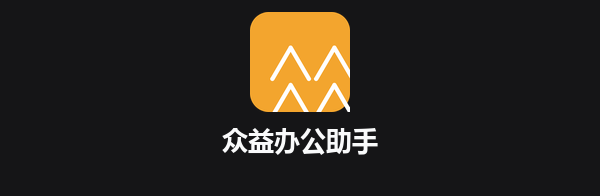
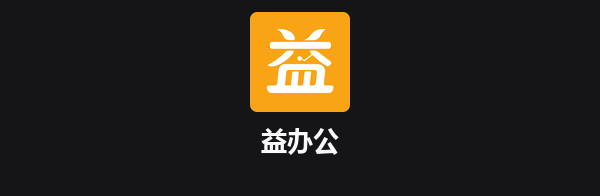
feat(desktop): brand the app as 益办公 with its own mark
The window, taskbar, tray, favicons and installer artwork now carry the
益 sign, while the sidebar keeps the 三九众益 corporate mark. The new
session hero swaps the upstream whale for the same single-colour mark.

The product name reads 益办公 in Chinese and DeepSeek Harness in English;
the packaging productName is untouched, so install paths and the
uninstaller entry keep their existing identity.

Changed region(s): [[0.39, 0.0612, 0.6, 0.5816], [0.36, 0.6429, 0.63, 0.7959]]

diff --git a/packages/client/ui-conversation/src/client/skeleton/EmptyHero.tsx b/packages/client/ui-conversation/src/client/skeleton/EmptyHero.tsx
@@ -1,10 +1,9 @@
 // The composer remains in ConversationRoot so switching out of the blank-draft
 // phase does not remount its textarea.
 
-import { useState } from 'react'
 import type { ReactNode, RefObject } from 'react'
 import {
-  FISH_LOGO_PATH, FISH_LOGO_VIEWBOX, IconChevronDownOutlineRegular, IconFolderCloseRegular, IconFolderOpenRegular,
+  IconChevronDownOutlineRegular, IconFolderCloseRegular, IconFolderOpenRegular,
 } from '@deepseek-ai/dsh-client-ui-primitives'
 import { workspaceTitleOf } from '@deepseek-ai/dsh-util-workspace-path'
 import type { ConversationContentProps } from '../contract/slots.ts'
@@ -71,55 +70,29 @@ export interface HeroShellProps {
   children?: ReactNode
 }
 
-/* Hover swim morph targets: the resting FISH_LOGO_PATH with weighted
-   regional deformation baked in (generated programmatically — parse the
-   path's absolute M/C/L/Z commands, displace points with smoothstep falloff
-   weights, emit the same command structure so SMIL can interpolate `d`
-   between them). Tail: rotation about (15.6, 5.2) with weight growing toward
-   the tail tip (x>15, y<8.5) — UP -7°, DOWN +6°. Mouth/fin swoosh: a bend,
-   not a rotation — vertical lift with weight-squared falloff from the body
-   anchor (14.1, 15.0), so the near end stays seated and the mouth corner
-   sweeps most, a smile lift (UP -0.7 units at the tip, DOWN +0.5). The eye
-   subpaths carry zero weight and stay fixed. */
-const HERO_SWIM_UP_PATH =
-  'M22.403 0.567C22.145 0.477 22.068 0.718 21.939 0.85C21.895 0.893 21.86 0.947 21.824 0.997C21.515 1.421 21.13 1.721 20.591 1.77C19.829 1.867 19.221 2.244 18.712 2.958C18.535 2.227 18.116 1.839 17.516 1.626C17.203 1.506 16.887 1.379 16.663 1.064C16.508 0.839 16.462 0.581 16.383 0.329C16.332 0.176 16.283 0.02 16.121 -0.002C15.944 -0.029 15.875 0.133 15.805 0.269C15.52 0.822 15.408 1.43 15.42 2.046C15.449 3.432 16.031 4.532 17.202 5.274C17.337 5.356 17.374 5.445 17.335 5.582C17.261 5.862 17.169 6.134 17.086 6.413C17.032 6.59 16.952 6.63 16.764 6.558C16.118 6.301 15.562 5.909 15.074 5.433C14.248 4.633 13.5 3.751 12.568 3.06C12.349 2.898 12.13 2.748 11.903 2.605C10.952 1.682 12.028 0.923 12.277 0.833C12.537 0.739 12.367 0.416 11.526 0.42C10.684 0.424 9.914 0.706 8.933 1.081C8.789 1.138 8.638 1.179 8.484 1.213C7.593 1.044 6.668 1.006 5.702 1.115C3.883 1.318 2.43 2.178 1.362 3.646C0.079 5.41 -0.223 7.415 0.147 9.506C0.535 11.71 1.66 13.535 3.389 14.962C5.181 16.441 7.246 17.166 9.601 17.027C11.032 16.944 12.624 16.753 14.421 15.232C14.874 15.458 15.35 15.548 16.138 15.615C16.746 15.672 17.331 15.585 17.784 15.491C18.493 15.341 18.444 14.684 18.188 14.564C16.108 13.595 16.565 13.989 16.15 13.67C17.206 12.42 18.82 10.198 19.363 7.086C19.421 6.709 19.484 6.171 19.469 5.866C19.458 5.681 19.493 5.604 19.681 5.556C20.199 5.412 20.691 5.172 21.125 4.806C22.366 3.824 22.758 2.554 22.708 1.1C22.7 0.878 22.649 0.654 22.403 0.567ZM11.175 14.451C9.159 12.726 8.182 12.088 7.778 12.067C7.401 12.047 7.469 12.505 7.552 12.807C7.639 13.103 7.752 13.313 7.91 13.581C8.02 13.758 8.095 14.01 7.801 14.16C7.152 14.487 6.023 13.806 5.97 13.772C4.657 12.85 3.559 11.766 2.785 10.369C2.037 9.025 1.603 7.583 1.532 6.044C1.513 5.672 1.622 5.541 1.992 5.473C2.479 5.383 2.981 5.364 3.468 5.436C5.525 5.736 7.276 6.675 8.744 8.323C9.582 9.299 10.216 10.425 10.869 11.496C11.563 12.592 12.31 13.603 13.262 14.414C13.598 14.696 13.866 14.91 14.123 15.068C13.349 15.154 12.058 15.167 11.175 14.452L11.175 14.451ZM12.141 8.26C12.141 8.095 12.273 7.963 12.439 7.963C12.476 7.963 12.511 7.971 12.541 7.982C12.582 7.997 12.62 8.019 12.65 8.053C12.704 8.106 12.733 8.181 12.733 8.26C12.733 8.425 12.601 8.556 12.435 8.556C12.27 8.556 12.141 8.425 12.141 8.26ZM15.142 9.799C14.949 9.878 14.757 9.945 14.572 9.953C14.284 9.968 13.972 9.851 13.802 9.709C13.537 9.487 13.348 9.363 13.27 8.977C13.236 8.812 13.255 8.556 13.284 8.41C13.352 8.094 13.277 7.892 13.055 7.708C12.873 7.558 12.643 7.516 12.39 7.516C12.296 7.516 12.209 7.475 12.145 7.441C12.039 7.389 11.952 7.257 12.035 7.096C12.062 7.043 12.19 6.916 12.22 6.893C12.563 6.698 12.96 6.762 13.326 6.908C13.665 7.047 13.922 7.302 14.292 7.663C14.669 8.098 14.738 8.218 14.953 8.545C15.123 8.801 15.277 9.063 15.383 9.364C15.447 9.551 15.364 9.705 15.142 9.799Z'
-const HERO_SWIM_DOWN_PATH =
-  'M23.271 2.216C23.039 2.071 22.91 2.287 22.755 2.388C22.703 2.42 22.656 2.464 22.61 2.505C22.214 2.848 21.771 3.054 21.225 2.956C20.412 2.784 19.68 2.919 19.005 3.435C18.92 2.663 18.493 2.157 17.808 1.798C17.446 1.621 17.08 1.449 16.83 1.111C16.656 0.872 16.611 0.612 16.524 0.354C16.469 0.198 16.414 0.039 16.223 0.009C16.017 -0.024 15.936 0.137 15.856 0.271C15.539 0.822 15.418 1.43 15.429 2.046C15.454 3.432 16.041 4.538 17.196 5.36C17.325 5.456 17.356 5.547 17.312 5.674C17.229 5.936 17.134 6.191 17.051 6.454C16.999 6.623 16.921 6.659 16.738 6.58C16.107 6.306 15.56 5.909 15.074 5.433C14.248 4.633 13.5 3.751 12.568 3.06C12.349 2.898 12.13 2.748 11.903 2.605C10.952 1.682 12.028 0.923 12.277 0.833C12.537 0.739 12.367 0.416 11.526 0.42C10.684 0.424 9.914 0.706 8.933 1.081C8.789 1.138 8.638 1.179 8.484 1.213C7.593 1.044 6.668 1.006 5.702 1.115C3.883 1.318 2.43 2.178 1.362 3.646C0.079 5.41 -0.223 7.415 0.147 9.506C0.535 11.71 1.66 13.535 3.389 14.962C5.181 16.441 7.246 17.166 9.601 17.027C11.032 16.944 12.624 16.753 14.421 15.232C14.874 15.458 15.35 15.548 16.138 15.615C16.746 15.672 17.331 15.585 17.784 15.491C18.493 15.341 18.444 14.684 18.188 14.564C16.108 13.595 16.565 13.989 16.15 13.67C17.206 12.42 18.82 10.198 19.278 7.246C19.318 6.948 19.375 6.534 19.371 6.293C19.371 6.145 19.411 6.092 19.597 6.098C20.113 6.109 20.619 6.051 21.096 5.891C22.503 5.375 23.169 4.232 23.448 2.804C23.49 2.586 23.491 2.356 23.271 2.216ZM11.175 14.49C9.159 13.005 8.182 12.567 7.778 12.621C7.401 12.673 7.469 13.087 7.552 13.354C7.639 13.619 7.752 13.797 7.91 14.024C8.02 14.175 8.095 14.406 7.801 14.609C7.152 15.063 6.023 14.63 5.97 14.609C4.657 13.941 3.559 12.965 2.785 11.569C2.037 10.225 1.603 8.783 1.532 7.244C1.513 6.872 1.622 6.741 1.992 6.673C2.479 6.583 2.981 6.564 3.468 6.636C5.525 6.936 7.276 7.843 8.744 9.163C9.582 9.888 10.216 10.783 10.869 11.679C11.563 12.659 12.31 13.617 13.262 14.415C13.598 14.696 13.866 14.91 14.123 15.068C13.349 15.155 12.058 15.177 11.175 14.491L11.175 14.49ZM12.141 8.26C12.141 8.095 12.273 7.963 12.439 7.963C12.476 7.963 12.511 7.971 12.541 7.982C12.582 7.997 12.62 8.019 12.65 8.053C12.704 8.106 12.733 8.181 12.733 8.26C12.733 8.425 12.601 8.556 12.435 8.556C12.27 8.556 12.141 8.425 12.141 8.26ZM15.142 9.799C14.949 9.878 14.757 9.945 14.572 9.953C14.284 9.968 13.972 9.851 13.802 9.709C13.537 9.487 13.348 9.363 13.27 8.977C13.236 8.812 13.255 8.556 13.284 8.41C13.352 8.094 13.277 7.892 13.055 7.708C12.873 7.558 12.643 7.516 12.39 7.516C12.296 7.516 12.209 7.475 12.145 7.441C12.039 7.389 11.952 7.257 12.035 7.096C12.062 7.043 12.19 6.916 12.22 6.893C12.563 6.698 12.96 6.762 13.326 6.908C13.665 7.047 13.922 7.302 14.292 7.663C14.669 8.098 14.738 8.218 14.953 8.545C15.123 8.801 15.277 9.063 15.383 9.364C15.447 9.551 15.364 9.705 15.142 9.799Z'
+/** The hero mark's artwork: the 益 sign on the 1024 canvas the brand files ship. */
+const HERO_MARK_VIEWBOX = 1024
+const HERO_MARK_PATH =
+  'M295.72 175.33 C281.08 176.16 272.61 179.2 278.75 181.42 C307.67 191.89 322.53 206.94 339.56 243.01 C356.53 278.97 374.78 288.72 425.07 288.72 C457.3 288.72 463.26 283.66 457.37 261.3 C442.67 205.6 377.13 170.74 295.72 175.33 M727.23 175.77 C677.13 182.78 653.17 196.1 622.24 234.13 C613.18 245.27 612.4 246.18 606.61 252.57 C592.48 268.15 574.91 279.88 556.6 285.95 C552.83 287.19 549.91 288.36 550.09 288.55 C550.79 289.25 649.62 288.68 655.84 287.94 C688.89 284.03 708.12 269.25 726.15 233.91 C740.4 205.98 751.91 192.64 769.35 183.84 C775.72 180.63 775.72 178.59 769.36 176.72 C766.5 175.88 732.01 175.1 727.23 175.77 M222.23 306.64 C215.45 308.44 209.81 313.17 206.05 320.24 C203.49 325.03 203.46 358.59 206 363.75 C208.06 367.94 212.44 372.32 216.95 374.7L220.48 376.56 514.08 376.74 C840.4 376.94 811.16 377.37 817.78 372.31 C826.38 365.72 828.29 358.89 828.35 334.48 C828.39 316.72 822.82 308.4 809.47 306.26 C801.49 304.98 227.07 305.35 222.23 306.64 M384.96 395.08 C377.36 397.09 372.11 400.69 360.51 411.87 C305.13 465.22 250.36 505.77 197.95 532.22 C177.9 542.34 178.08 549.12 198.55 554.66 C251.12 568.88 336.25 529.95 410.42 457.78 C445.56 423.58 454.75 405.07 440.87 396.45L438.16 394.76 412.61 394.64 C398.56 394.58 386.12 394.77 384.96 395.08 M620.84 395.46 C608.9 399.69 609.98 406.68 625.09 422.81 C634.3 432.65 634.07 431.84 628.71 435.71 C626.31 437.44 615.84 445.31 605.44 453.21 C561.92 486.24 554.97 491.22 552.88 490.82 C552.05 490.66 547.12 487.91 541.92 484.71L532.47 478.89 532.14 474.27 C530.03 444.92 485.41 445.94 485.32 475.35 C485.25 498.52 513.93 508.02 527.4 489.28 C529.8 485.94 527.55 484.84 548.33 499.46 C557.55 505.94 554.88 507.11 586.97 482.6 C605.95 468.12 611.29 464.02 631.48 448.5L640.72 441.39 651.1 450.98 C656.81 456.24 664.31 463.12 667.76 466.26 C674.69 472.57 703.42 497.1 707.27 500.01 C708.62 501.02 712.74 504.27 716.44 507.22 C745.9 530.74 780.33 552.61 791.44 554.87 C811.84 559.01 838.24 529.46 829.6 512.15 C827.09 507.13 823.54 504.05 802.82 488.92 C796.28 484.14 786.08 476.59 780.15 472.14 C774.23 467.69 767.92 462.95 766.12 461.6 C764.33 460.26 759.45 456.48 755.29 453.21 C751.12 449.93 746.39 446.31 744.77 445.16 C743.15 444 733.07 436.28 722.38 428.01 C692.6 404.96 682.5 398.51 671.94 395.81 C664.87 394 625.73 393.73 620.84 395.46 M351.39 533.78 C316.73 538.83 295.56 564.87 291.48 607.52 C290.7 615.62 289.31 629.64 288.38 638.69 C287.46 647.73 285.75 664.43 284.58 675.78 C283.42 687.14 282.12 699.9 281.69 704.13 C278.62 734.37 277.65 738.56 272.2 745.04 C266.45 751.88 265.07 752.08 223.8 752.08 C182.94 752.08 183.53 752 177.65 758.03 C172.92 762.89 172.23 765.4 172.78 775.91 C174.24 803.8 189.32 823.91 212.43 828.81 C220.32 830.48 807.68 830.47 815.66 828.8 C838.58 823.99 853.25 801.91 853.74 771.5 C853.88 762.21 851.52 757.55 844.82 753.94 C842.07 752.46 841.28 752.42 804.16 752.08L766.3 751.73 763.4 749.71 C755.59 744.3 755.49 741.87 760.84 691.53 C762.96 671.51 765.18 650.57 765.76 644.99 C766.33 639.41 767.46 629.01 768.27 621.89 C773.64 574.13 749.35 540.88 704.12 534.06 C696.17 532.86 359.53 532.59 351.39 533.78 M393.71 593.87 C386.44 594.81 379.99 598.91 375.56 605.4 C371.8 610.91 371.11 614.53 368.86 640.79 C368.25 647.91 366.99 660.67 366.07 669.13 C365.15 677.6 363.57 692.72 362.56 702.73 C361.56 712.74 360.28 725.02 359.73 730.03 C357.19 752.9 356.08 752.08 389.46 752.08 C420.69 752.08 418 753.68 420.31 733.63 C421.66 721.93 426.57 674.51 429.41 645.69 C430.19 637.8 431.14 628.25 431.52 624.48 C433.07 609.05 435.56 607.89 466.99 607.89 C498.59 607.9 501.16 609.33 499.45 625.91 C499.06 629.67 498.26 637.54 497.67 643.41 C497.08 649.28 496.12 658.89 495.52 664.76 C494.93 670.63 493.67 683.15 492.71 692.58 C491.76 702.01 490.2 717.08 489.24 726.05 C487.03 746.85 487.02 748.16 489.22 750.36L490.94 752.08 514.67 752.08 C544.11 752.08 542.55 752.78 544.14 738.78 C544.51 735.51 546.25 720.54 548.01 705.53 C549.77 690.52 551.52 675.4 551.9 671.93 C557.53 620.55 558.48 615.23 562.72 611.5 C566.38 608.29 566.85 608.24 593.6 608.24L618.15 608.24 620.78 610.25 C627.3 615.22 627.29 611.67 620.85 663.81 C609.56 755.2 610.27 746.87 613.48 750.07L615.56 752.16 634.65 751.94 C655.96 751.7 657.04 751.48 663.57 746.13 C671.71 739.47 673.66 733.69 676.12 709.03 C676.74 702.87 679.15 680.98 681.47 660.39 C686.58 615.22 686.64 613.84 683.6 607.68 C677.84 595.97 673.5 594.35 646.39 593.84 C615.55 593.25 398.28 593.28 393.71 593.87'
 
 /**
- * The hero fish (34px wide), static at rest. Hovering swims the whale in
- * place: a gentle head-up sway (CSS, on the hitbox hover) while the body
- * itself morphs — SMIL interpolates `d` through the tail-up and tail-down
- * targets on the same 1.6s period, so the tail wags and the fin flutters in
- * real curve deformation. Decorative — hidden from the accessibility tree;
- * reduced motion keeps the static filled logo on hover (sampled at
- * mouseenter; a mid-hover preference change takes effect on the next enter).
- * @param props.hovering - driven by the hitbox parent's pointer state.
- * @returns the fish svg element.
+ * The hero mark (30px), static at rest. Hovering sways it in place through
+ * CSS on the hitbox; the artwork never morphs, so the mark stays this
+ * distribution's own sign instead of the upstream whale. Decorative — hidden
+ * from the accessibility tree.
+ * @returns the hero mark svg element.
  */
-function HeroFish({ hovering }: { hovering: boolean }) {
+function HeroMark() {
   return (
     <svg
       className={css.fish}
-      width={34}
-      height={(34 * FISH_LOGO_VIEWBOX.height) / FISH_LOGO_VIEWBOX.width}
-      viewBox={`0 0 ${FISH_LOGO_VIEWBOX.width} ${FISH_LOGO_VIEWBOX.height}`}
+      width={30}
+      height={30}
+      viewBox={`0 0 ${HERO_MARK_VIEWBOX} ${HERO_MARK_VIEWBOX}`}
       fill="none"
       aria-hidden="true"
     >
-      <path d={FISH_LOGO_PATH} fill="currentColor">
-        {hovering && (
-          <animate
-            attributeName="d"
-            values={`${FISH_LOGO_PATH};${HERO_SWIM_UP_PATH};${FISH_LOGO_PATH};${HERO_SWIM_DOWN_PATH};${FISH_LOGO_PATH}`}
-            keyTimes="0;0.35;0.55;0.75;1"
-            calcMode="spline"
-            keySplines="0.45 0 0.55 1;0.45 0 0.55 1;0.45 0 0.55 1;0.45 0 0.55 1"
-            dur="1.6s"
-            repeatCount="indefinite"
-          />
-        )}
-      </path>
+      <path d={HERO_MARK_PATH} fill="currentColor" fillRule="evenodd" />
     </svg>
   )
 }
@@ -130,23 +103,14 @@ function HeroFish({ hovering }: { hovering: boolean }) {
  * @returns the centered hero element tree.
  */
 export function HeroShell({ t, renderSlot, children }: HeroShellProps) {
-  const [hovering, setHovering] = useState(false)
   return (
     <div className={css.root}>
       <div className={css.stack}>
         <div className={css.headline}>
-          {/* figma 34:10412: fish 34×25 leading the headline, gap 10. */}
-          <span
-            className={css.fishHitbox}
-            onMouseEnter={() => {
-              if (window.matchMedia('(hover: hover) and (prefers-reduced-motion: no-preference)').matches) {
-                setHovering(true)
-              }
-            }}
-            onMouseLeave={() => { setHovering(false) }}
-          >
+          {/* figma 34:10412: the mark leads the headline, gap 10. */}
+          <span className={css.fishHitbox}>
             {renderSlot('conversation.hero.brand.mark', { size: 34, className: css.fish }, {
-              fallback: <HeroFish hovering={hovering} />,
+              fallback: <HeroMark />,
             })}
           </span>
           <span className={css.titleGroup}>

diff --git a/apps/web/vite.config.ts b/apps/web/vite.config.ts
@@ -11,7 +11,7 @@ const src = (rel: string): string => fileURLToPath(new URL(rel, import.meta.url)
 const STANDALONE_ERROR = 'apps/web is not a standalone application: bare Vite cannot inject window.__DSH_BOOT__. '
   + 'From a repository checkout, run `pnpm dsh web`; an installed package uses `dsh web`. '
   + 'For client-plugin HMR, run `pnpm run dev:web`, which starts `dsh web` and the rebuild watchers together.'
-const DEFAULT_CLIENT_TITLE = 'DSH Local Build'
+const DEFAULT_CLIENT_TITLE = 'DeepSeek Harness'
 
 /** Escape build-time text before placing it in the HTML title element. */
 function escapeHtmlText(value: string): string {

diff --git a/packages/client/ui-settings-account/src/client/locales/onboarding.ts b/packages/client/ui-settings-account/src/client/locales/onboarding.ts
@@ -2,7 +2,7 @@
 export const onboardingCopy = {
   onboardingArtworkLocale: 'zh',
   onboardingWelcome: '欢迎使用',
-  onboardingBrand: 'DeepSeek Harness',
+  onboardingBrand: '益办公',
   onboardingIntroduction: 'DeepSeek Harness 会以本地文件夹作为工作区，通过调用各种工具，读写本机文件，完成搜索整理资料、制作文档表格、编写代码、排查问题等各种任务。',
   onboardingStart: '开始设置',
   onboardingCredit: '准备可用额度',

diff --git a/packages/client/locale/src/locales/en.ts b/packages/client/locale/src/locales/en.ts
@@ -33,7 +33,7 @@ export const en = {
   'collapse': 'Collapse',
   'expand': 'Expand',
   'back': 'Back',
-  'brand.localBuild': 'DSH Local Build',
+  'brand.localBuild': 'DeepSeek Harness',
   'workspace.defaultName': 'Default workspace',
   'unknown': 'Unknown',
   'none': 'None',

diff --git a/packages/client/locale/src/locales/zh.ts b/packages/client/locale/src/locales/zh.ts
@@ -31,7 +31,7 @@ export const zh = {
   'collapse': '收起',
   'expand': '展开',
   'back': '返回',
-  'brand.localBuild': 'DSH 本地构建',
+  'brand.localBuild': '益办公',
   'workspace.defaultName': '默认工作区',
   'unknown': '未知',
   'none': '无',

diff --git a/packages/client/ui-conversation/src/client/skeleton/HeroShell.module.css b/packages/client/ui-conversation/src/client/skeleton/HeroShell.module.css
@@ -90,7 +90,7 @@
 .fish {
   display: block;
   overflow: visible;
-  transform-origin: 50% 60%;
+  transform-origin: 50% 50%;
   color: var(--dsw-alias-label-primary);
 }
 

diff --git a/apps/desktop/installer/extract-report.h b/apps/desktop/installer/extract-report.h
@@ -114,7 +114,7 @@ inline std::wstring Headline(int code, const std::wstring& output, const std::ws
 
 inline std::wstring Compose(int code, const std::wstring& archive, const std::wstring& destination, const std::wstring& output,
                             const std::wstring& timestamp, const std::wstring& windowsVersion) {
-    std::wstring report = L"众益办公助手 installer: extraction failed\r\n";
+    std::wstring report = L"益办公 installer: extraction failed\r\n";
     report += L"Time: " + timestamp + L"\r\n";
     report += L"Result: " + DescribeResult(code) + L"\r\n";
     report += L"Archive: " + archive + L"\r\n";
